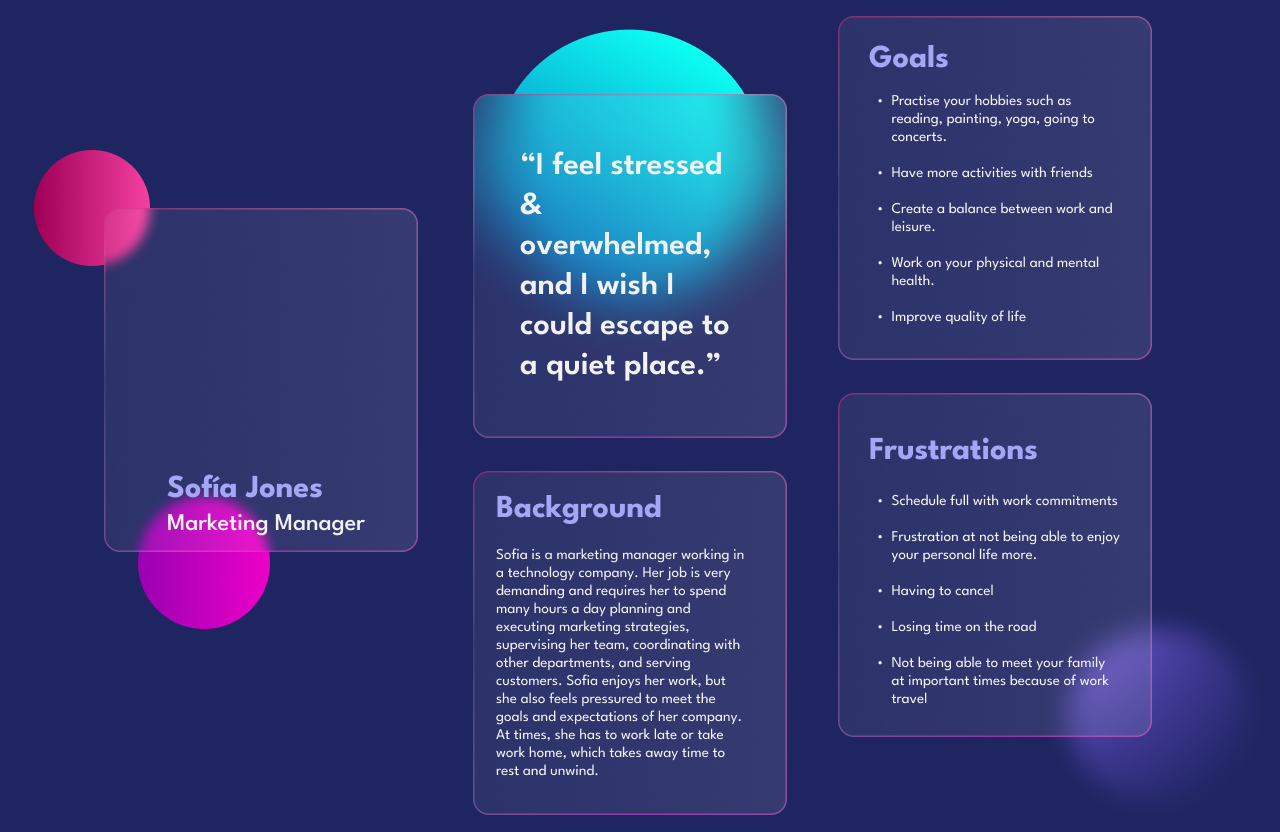
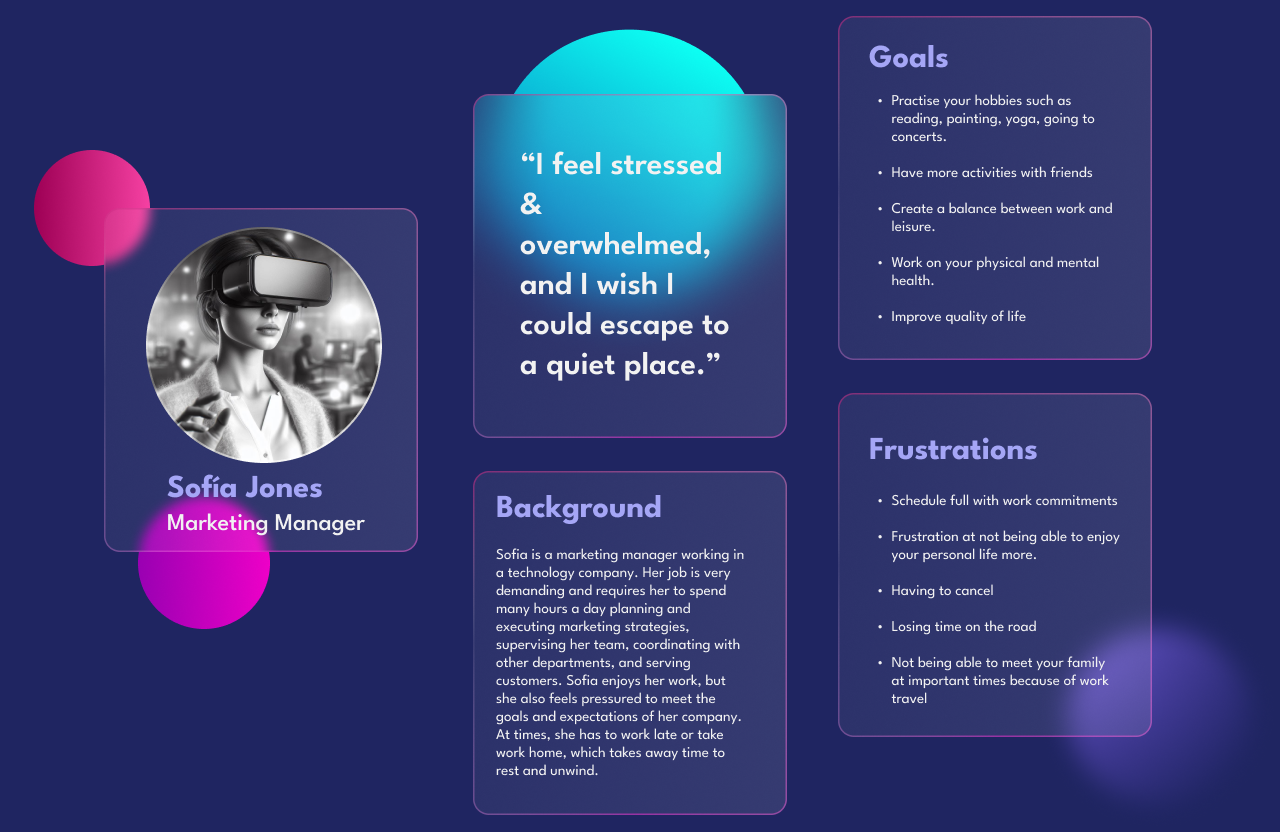
images

Changed region(s): [[0.0938, 0.25, 0.3125, 0.5625]]

diff --git a/src/alienpooh/alienpooh.html b/src/alienpooh/alienpooh.html
@@ -96,8 +96,8 @@
                 Therefore, it became a bit complex for users to keep a good diary about their processes or to keep their diaries in order.   
             </p>          
             </div>
-            <div class="item" style="background: url(https://github.com/verukami/beta/blob/master/src/img/alienpooh/market_rs.png?raw=true) center center no-repeat;
-            background-size: cover;"></div>
+            <div class="item" style="background: url(https://github.com/verukami/beta/blob/master/src/img/alienpooh/market_rs.png?raw=true) center left no-repeat;
+            background-size: 80%;"></div>
         </div>
     </div>
 </section>
@@ -114,6 +114,9 @@
             
             Therefore, it became a bit complex for users to keep a good diary about their processes or to keep their diaries in order. 
         </p>
+        <div class="block-image block-image--center">
+            <img src="https://github.com/verukami/beta/blob/master/src/img/alienpooh/user_persona.png?raw=true" style='width: 100%' alt="User persona">
+        </div>
     </div>
 </section>
 
@@ -121,8 +124,12 @@
         <div class="block-wrapper">
             <div class="block-style1">
                 <h1 class="content-title">
-                    Develop
+                    Solution
                 </h1>
+                <p class="text-content">
+                    By exploring the research and user personas we can begin to devise the features and benefits that can be found within the product.
+                </p>
+                <img src="https://github.com/verukami/beta/blob/master/src/img/alienpooh/solutions.png?raw=true" style='width: 100%' alt="solutions"
                 <iframe src="https://skybox.blockadelabs.com/e/1c30db99d2a5ff011a73e7d690321dc8" width=1200 height=800 style="border:0;" allow="fullscreen"></iframe>
             
                 <img src="../img/alienpooh/logo.png" style='max-width: 100%' alt="">
